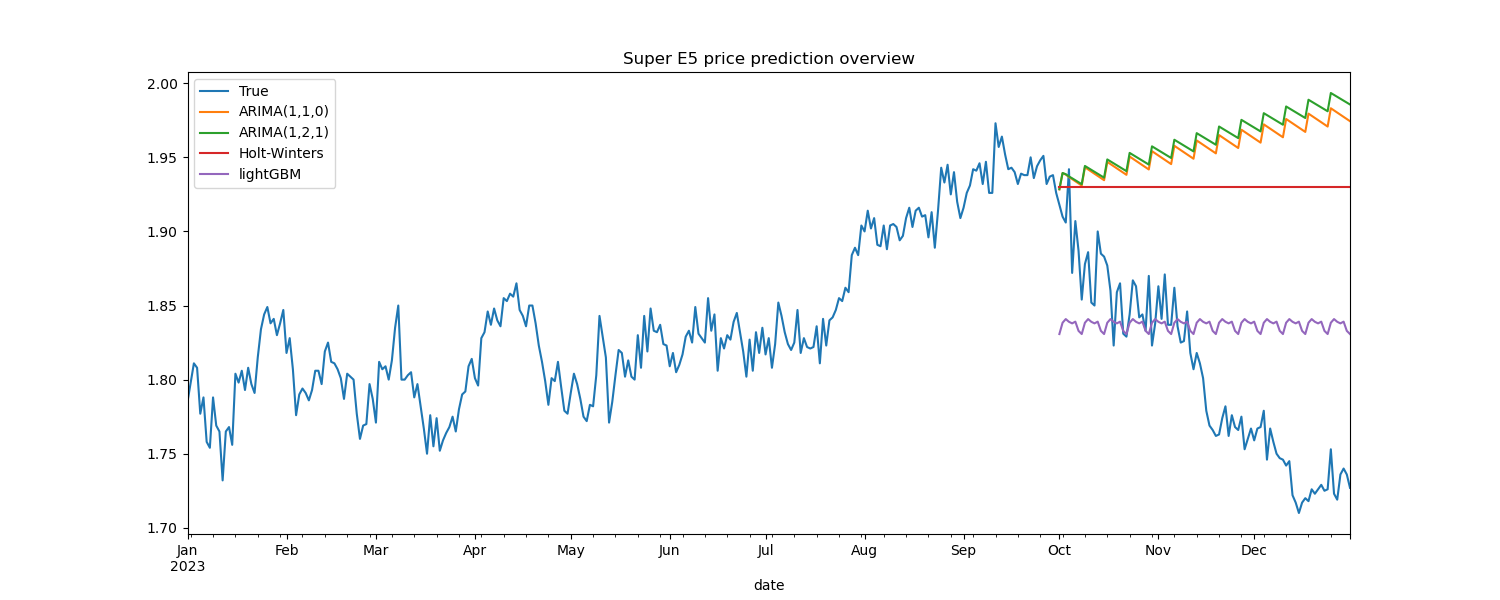
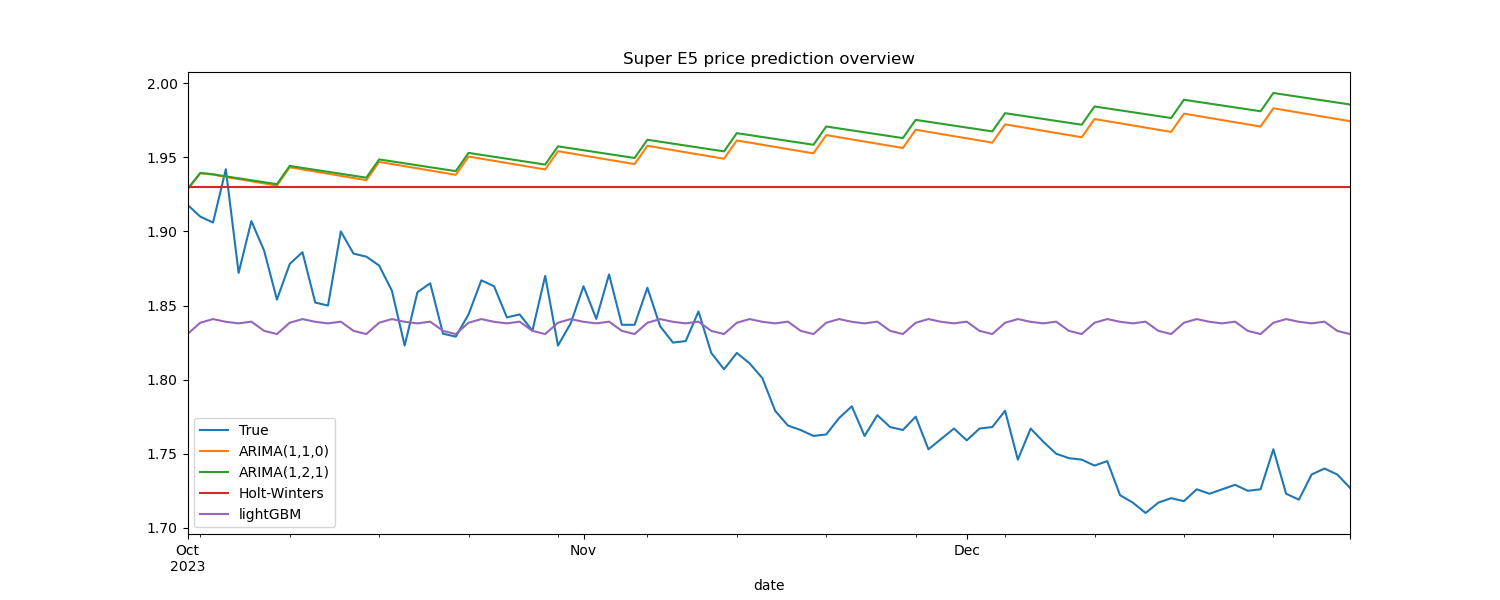
On branch main Your branch is up to date with 'origin/main'.
Changes to be committed:
	modified:   .gitignore
	new file:   experiments/plotting.py
	modified:   experiments/price/experimental_data/true.json
	modified:   experiments/price/forecasting.py
	modified:   experiments/price/stability.py
	modified:   experiments_plots/overview/price.png
	new file:   experiments_plots/violin_linien_plots/price_AE.png
	deleted:    libs/__pycache__/__init__.cpython-311.pyc
	deleted:    libs/__pycache__/split.cpython-311.pyc
	modified:   training/price/arima_training.py
	modified:   training/price/holt_winters_training.py
	modified:   training/price/lightbgm_training.py
	modified:   training/price/naive1_training.py
	renamed:    libs/__init__.py -> utils/__init__.py
	renamed:    libs/errors.py -> utils/errors.py
	renamed:    libs/metrics.py -> utils/metrics.py
	renamed:    libs/promethee.py -> utils/promethee.py
	renamed:    libs/split.py -> utils/split.py

diff --git a/experiments/price/stability.py b/experiments/price/stability.py
@@ -1,4 +1,32 @@
 #!/usr/bin/env python3
 import pandas as pd
+import numpy as np
 import sys
 sys.path.append("../..")
+import utils.errors as errors
+
+df_true = pd.read_json('experimental_data/true.json')
+df_pred_arima110 = pd.read_json('experimental_data/pred_arima110.json')
+df_pred_holt = pd.read_json('experimental_data/pred_holt.json')
+df_pred_gbm = pd.read_json('experimental_data/pred_gbm.json')
+
+arr_true = df_true.transpose().values[0]
+arr_pred_arima110 = df_pred_arima110.transpose().values[0]
+arr_pred_holt = df_pred_holt.transpose().values[0]
+arr_pred_gbm = df_pred_gbm.transpose().values[0]
+
+# errors
+ae_arima110 = errors.absolute_error(arr_true, arr_pred_arima110)
+ae_holt = errors.absolute_error(arr_true, arr_pred_holt)
+ae_gbm = errors.absolute_error(arr_true, arr_pred_gbm)
+
+# plotting
+sys.path.append("..")
+import plotting
+save_path = '../../experiments_plots/violin_linien_plots/price_AE.png'
+plotting.line_violin_plotting(save_path, ae_arima110, ae_holt, ae_gbm, 'arima(1,1,0)', 'holt-winters', 'lightGBM')
+
+# variance
+var_ae_arima110 = np.var(ae_arima110)
+var_ae_holt = np.var(ae_holt)
+var_ae_gbm = np.var(ae_gbm)

diff --git a/experiments/plotting.py b/experiments/plotting.py
@@ -1,0 +1,32 @@
+#!/usr/bin/env python3
+import matplotlib.pyplot as plt
+import seaborn as sns
+
+from numpy.typing import ArrayLike
+def line_violin_plotting(save_path:str, dataset_0: ArrayLike, dataset_1: ArrayLike, 
+               dataset_2: ArrayLike, ylabel_0: str, ylabel_1: str, ylabel_2: str):
+    fig = plt.figure(figsize=(15, 6))
+    gs = plt.GridSpec(3, 2, width_ratios=[4, 1])
+
+    ax00 = plt.subplot(gs[0,0])
+    ax00.plot(dataset_0, marker='o', markerfacecolor='white')
+    ax00.set_ylabel(ylabel_0)
+    ax01 = plt.subplot(gs[0,1])
+    sns.violinplot(data=dataset_0, ax=ax01, fill=False)
+
+    ax10 = plt.subplot(gs[1,0])
+    ax10.plot(dataset_1, marker='o', markerfacecolor='white')
+    ax10.set_ylabel(ylabel_1)
+    ax11 = plt.subplot(gs[1,1])
+    sns.violinplot(data=dataset_1, ax=ax11, fill=False)
+
+    ax20 = plt.subplot(gs[2,0])
+    ax20.plot(dataset_2, marker='o', markerfacecolor='white')
+    ax20.set_ylabel(ylabel_2)
+    ax21 = plt.subplot(gs[2,1])
+    sns.violinplot(data=dataset_2, ax=ax21, fill=False)
+
+    plt.tight_layout()
+    fig.show()
+    fig.savefig(save_path)
+

diff --git a/experiments/price/forecasting.py b/experiments/price/forecasting.py
@@ -2,7 +2,7 @@
 import pandas as pd
 import sys
 sys.path.append("../..")
-import libs.split as split
+import utils.split as split
 from sktime.forecasting.model_selection import temporal_train_test_split
 import pickle
 from sktime.forecasting.base import ForecastingHorizon
@@ -39,7 +39,7 @@ pred_holt = mod_holt.predict(fh, X_test)
 pred_gbm = mod_gbm.predict(X_test)
 
 # persistenz
-true = pd.concat([y_train, y_test])
+true = pd.DataFrame(y_test)
 df_true = pd.DataFrame(true)
 df_true.rename(columns={'e5':'True'}, inplace=True)
 df_true.to_json('experimental_data/true.json')

diff --git a/training/price/lightbgm_training.py b/training/price/lightbgm_training.py
@@ -2,7 +2,7 @@
 import pandas as pd
 import sys
 sys.path.append("../..")
-import libs.split as split
+import utils.split as split
 import lightgbm as lgb
 
 df = pd.read_csv('../../processed_data/price.csv')

diff --git a/training/price/holt_winters_training.py b/training/price/holt_winters_training.py
@@ -2,7 +2,7 @@
 import pandas as pd
 import sys
 sys.path.append("../..")
-import libs.split as split
+import utils.split as split
 from sktime.forecasting.exp_smoothing import ExponentialSmoothing
 
 

diff --git a/training/price/naive1_training.py b/training/price/naive1_training.py
@@ -2,7 +2,7 @@
 import pandas as pd
 import sys
 sys.path.append("../..")
-import libs.split as split
+import utils.split as split
 from sktime.forecasting.naive import NaiveForecaster
 
 

diff --git a/training/price/arima_training.py b/training/price/arima_training.py
@@ -2,7 +2,7 @@
 import pandas as pd
 import sys
 sys.path.append("../..")
-import libs.split as split
+import utils.split as split
 from sktime.forecasting.arima import ARIMA
 
 
